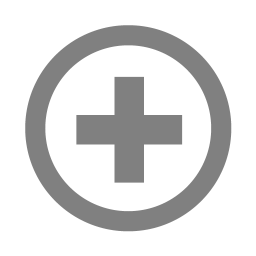
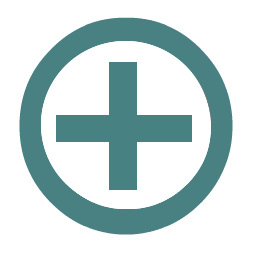
Remove dashboard, add styling for profile pages

diff --git a/App/Components/ProfileFriend.js b/App/Components/ProfileFriend.js
@@ -110,7 +110,7 @@ var styles = {
     marginTop: 10
   },
   badgeContainer: {
-    backgroundColor: '#48BBEC',
+    backgroundColor: '#498183',
     paddingBottom: 10,
     marginTop: 55,
     width: 400
@@ -146,7 +146,7 @@ var styles = {
     padding: 10
   },
   rowTitle: {
-    color: '#48BBEC',
+    color: '#6ccbe7',
     fontSize: 16
   },
   rowContent: {
@@ -154,19 +154,19 @@ var styles = {
   },
   button: {
     height: 45,
-    width: 250,
+    width: 200,
     flexDirection: 'row',
-    backgroundColor: '#f1cc1f',
-    borderColor: '#f1cc1f',
-    borderWidth: 1,
+    backgroundColor: '#feb732',
     borderRadius: 8,
     marginBottom: 10,
-    marginTop: 10,
+    marginTop: 15,
     alignSelf: 'center',
     justifyContent: 'center'
   },
   buttonText: {
-    fontSize: 30
+    color: '#fff',
+    padding: 10,
+    fontSize: 20
   }
 };
 

diff --git a/App/Components/TabBar.js b/App/Components/TabBar.js
@@ -7,7 +7,6 @@ import React, {
   TabBarIOS
 } from 'react-native';
 
-import Dashboard from './Dashboard';
 import Main from './Main';
 import Friends from './Friends';
 import Profile from './Profile';
@@ -60,10 +59,10 @@ class TabBar extends React.Component {
 var styles = StyleSheet.create({
   tabContent: {
     flex: 1,
-    alignItems: 'center'
+    alignItems: 'center',
   },
   tabText: {
-    margin:50,
+    margin: 50,
     fontSize: 45
   }
 });

diff --git a/App/Components/Profile.js b/App/Components/Profile.js
@@ -115,7 +115,7 @@ var styles = {
     marginTop: 10
   },
   badgeContainer: {
-    backgroundColor: '#48BBEC',
+    backgroundColor: '#498183',
     paddingBottom: 10,
     marginTop: 55,
     width: 400
@@ -150,7 +150,7 @@ var styles = {
     padding: 10
   },
   rowTitle: {
-    color: '#48BBEC',
+    color: '#6ccbe7',
     fontSize: 16
   },
   rowContent: {

diff --git a/App/Components/Signup.js b/App/Components/Signup.js
@@ -1,7 +1,6 @@
 var React = require('react-native');
 var Firebase = require('firebase');
 var api = require('../Utils/api');
-var Dashboard = require('./Dashboard');
 var UserDetails = require('./UserDetails');
 var SignupAddInfo = require('./SignupAddInfo');
 

diff --git a/App/Components/Main.js b/App/Components/Main.js
@@ -2,7 +2,6 @@ var React = require('react-native');
 var Firebase = require('firebase');
 var api = require('../Utils/api');
 var Signup = require('./Signup');
-var Dashboard = require('./Dashboard');
 var TabBar = require('./TabBar');
 
 var {

diff --git a/App/Components/Helpers/Separator.js b/App/Components/Helpers/Separator.js
@@ -11,7 +11,8 @@ var {
     height: 1,    
     backgroundColor: '#E4E4E4',   
     flex: 1,    
-    marginLeft: 15    
+    marginLeft: 15,
+    marginRight: 15    
   },    
 });   
    

diff --git a/App/Components/UserDetails.js b/App/Components/UserDetails.js
@@ -1,7 +1,6 @@
 var React = require('react-native');
 var Firebase = require('firebase');
 var api = require('../Utils/api');
-var Dashboard = require('./Dashboard');
 
 var {
   View,

diff --git a/App/Components/Friends.js b/App/Components/Friends.js
@@ -153,7 +153,7 @@ class Friends extends Component{
 
 var styles = {
   container: {
-    marginTop: 0,
+    marginTop: 0
   },
   isLoadingContainer: {
     flex: 1,
